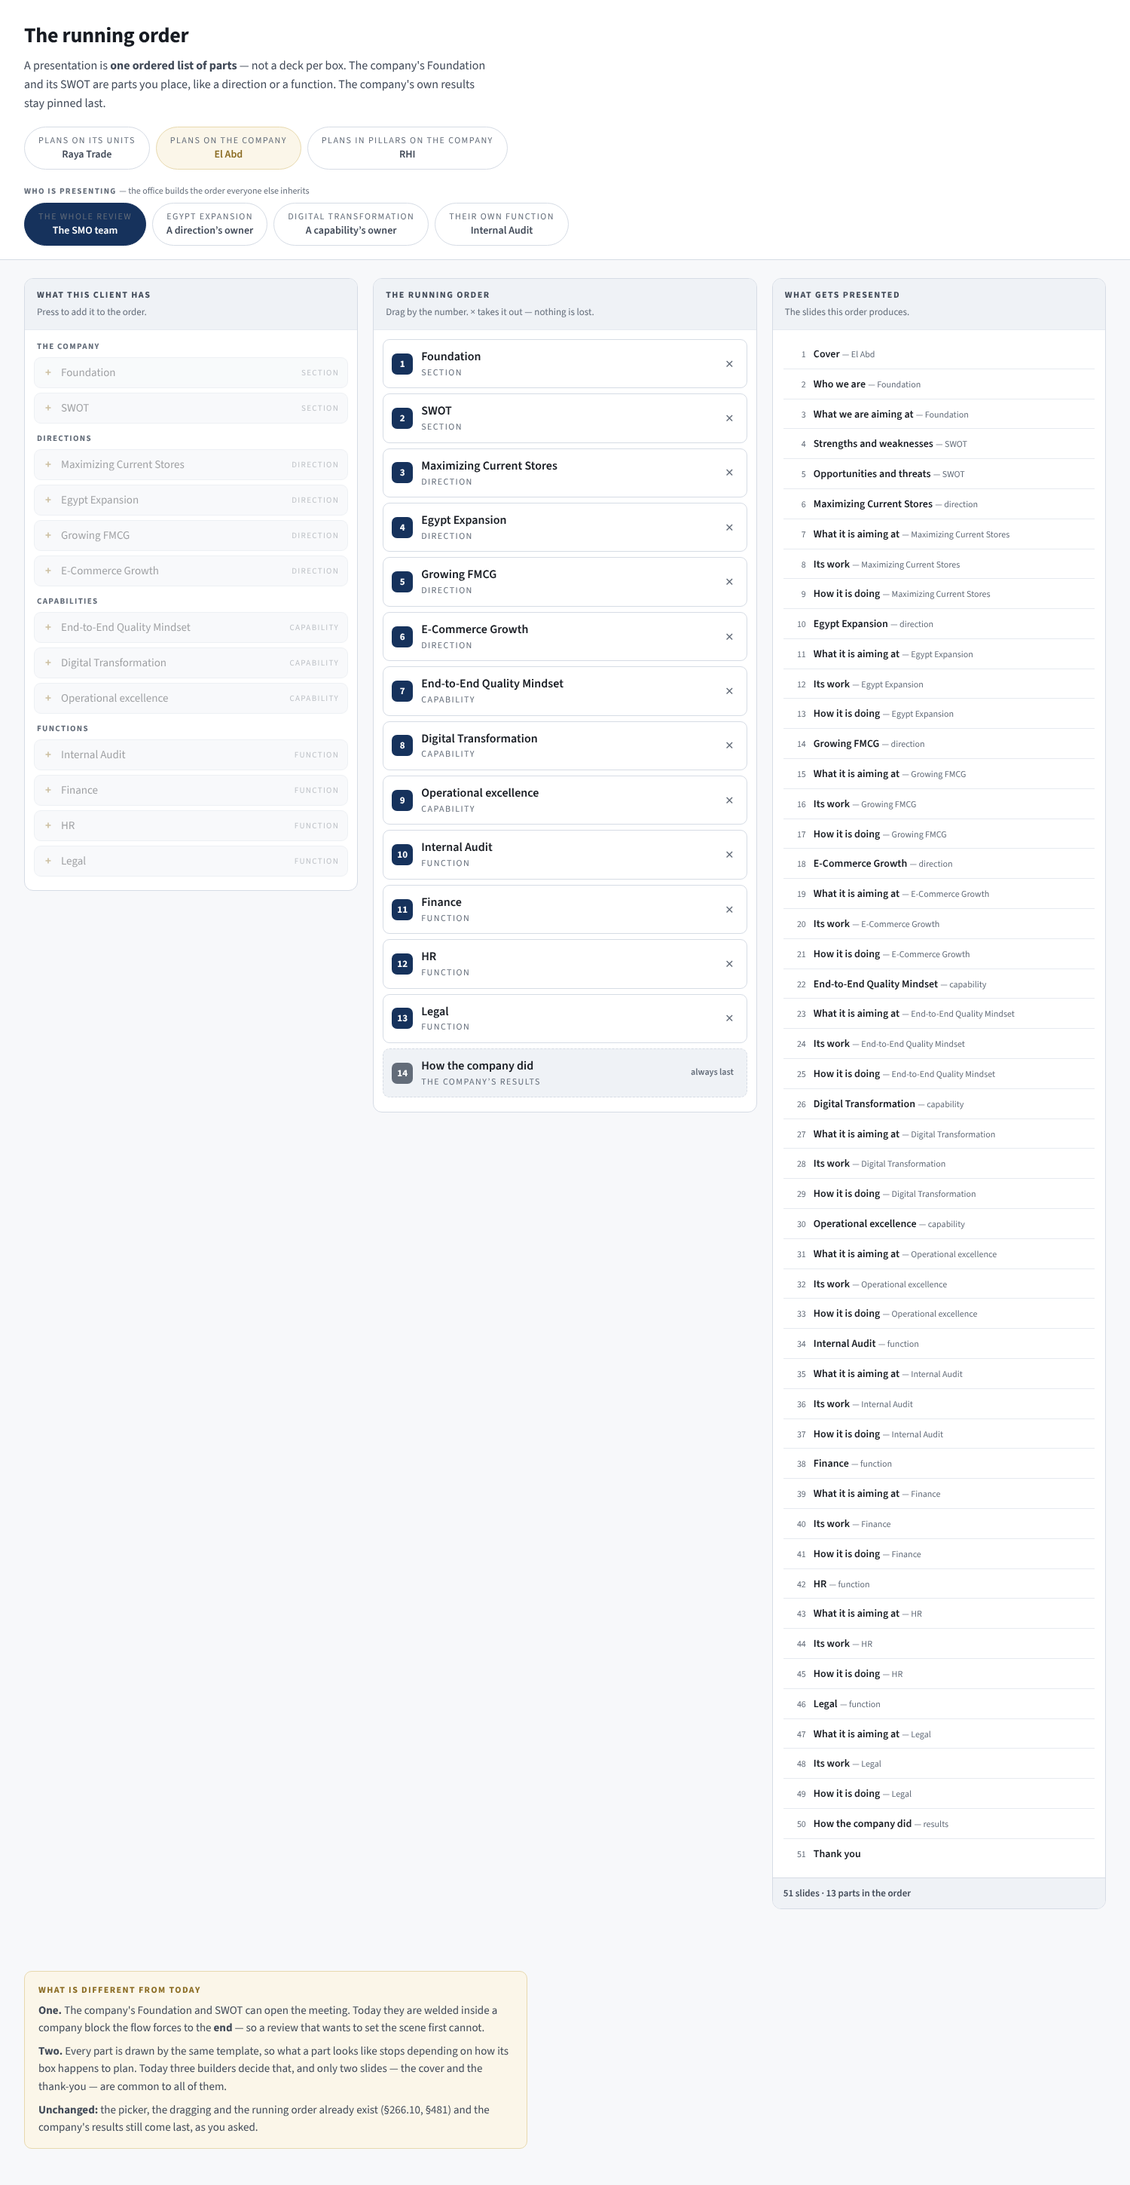
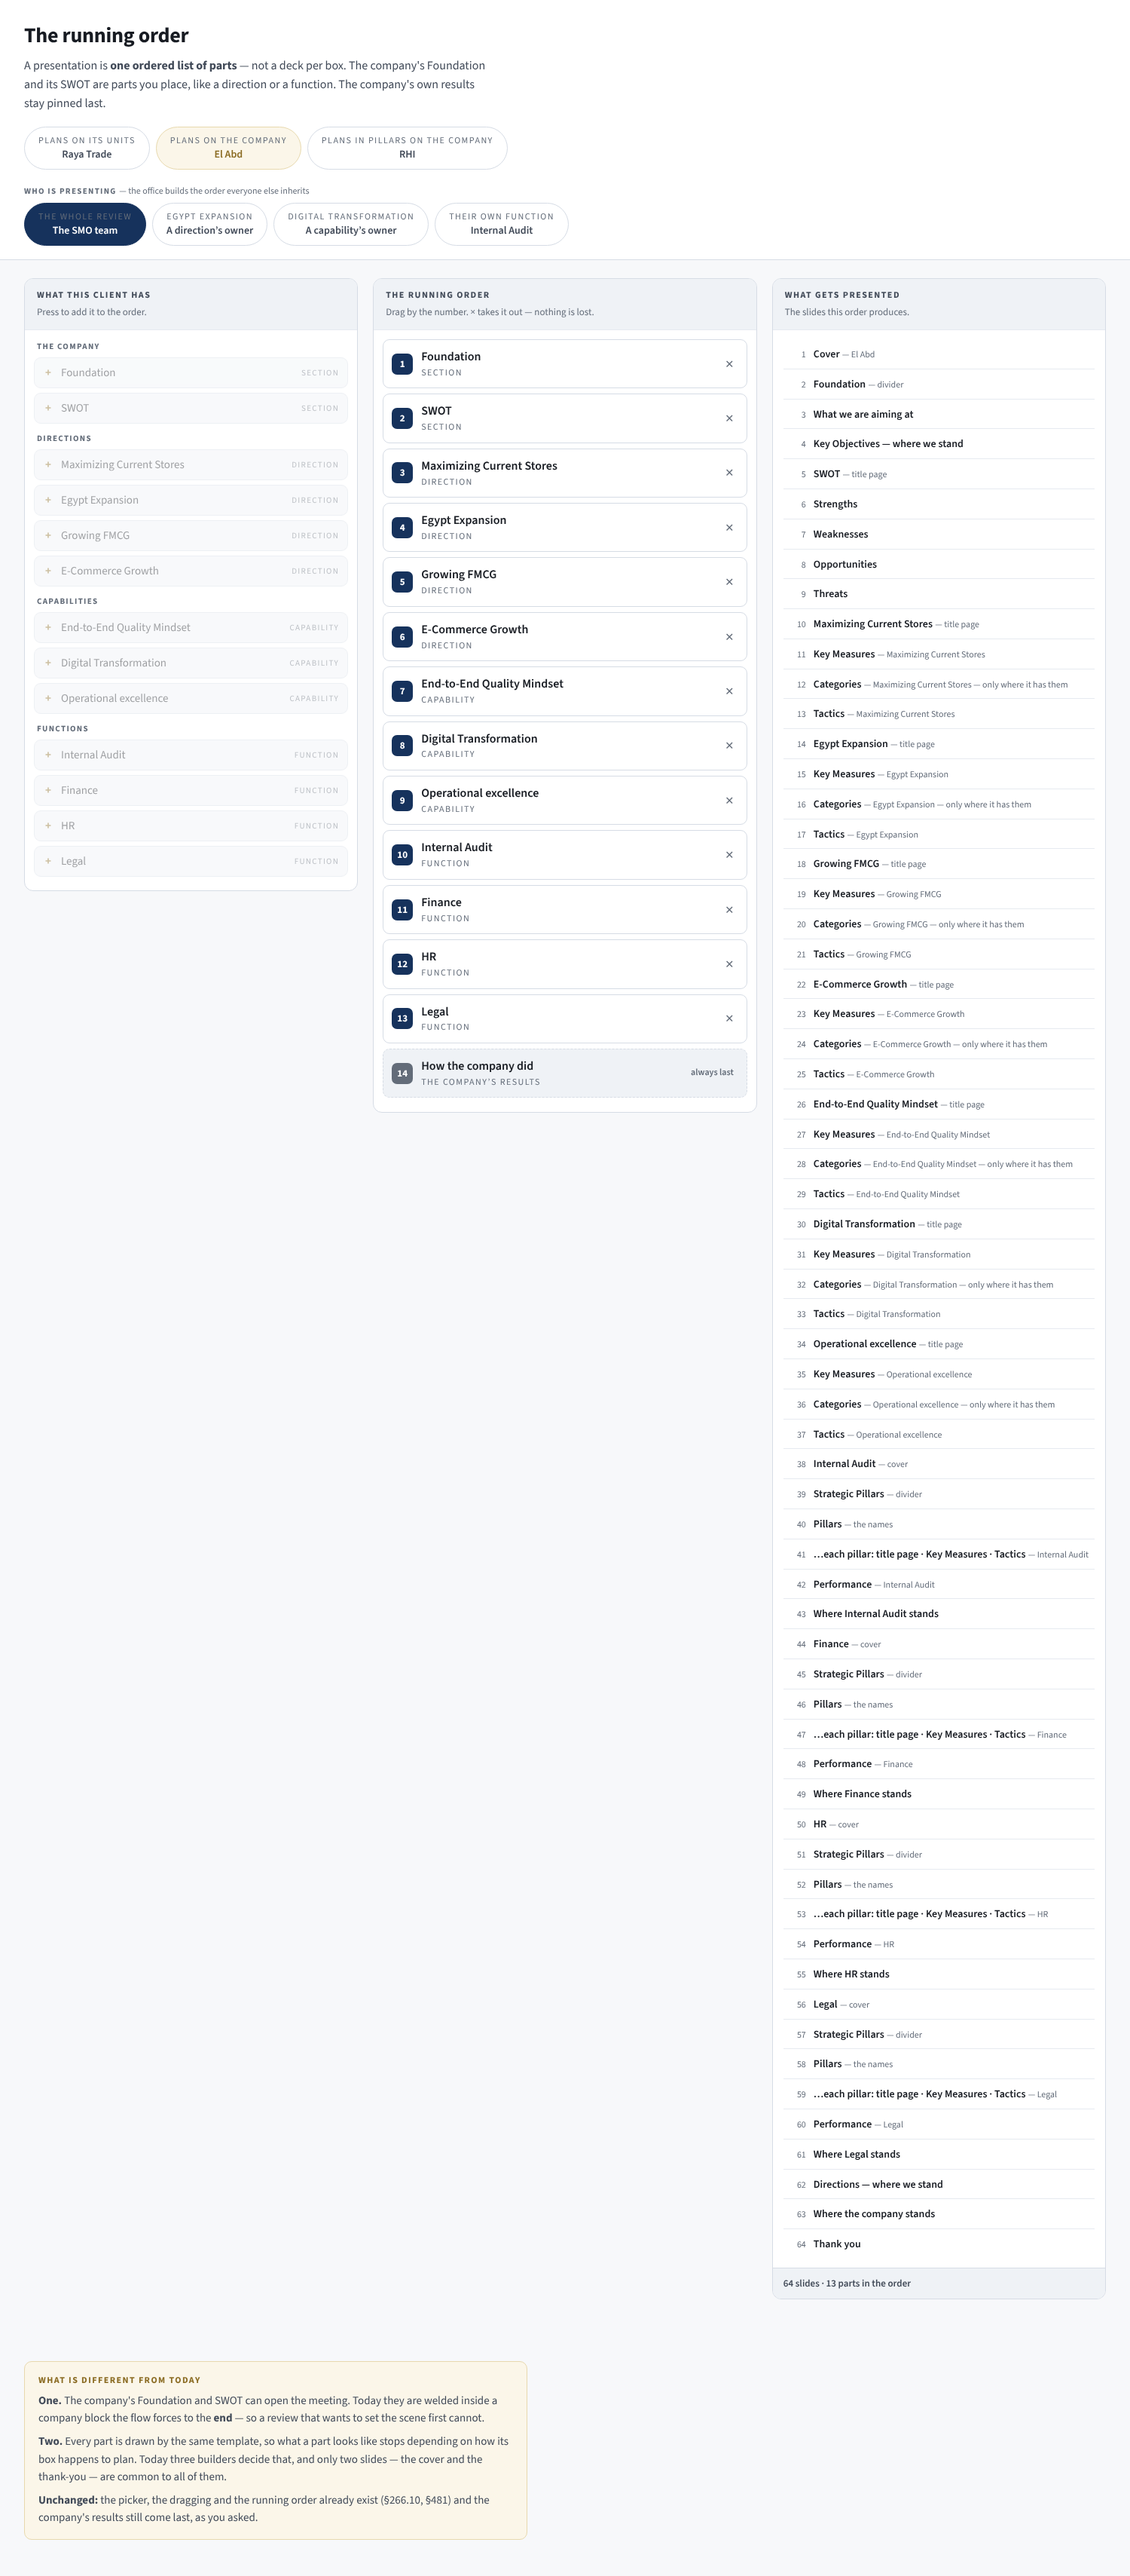
The slide names were invented; they are measured now
Islam, of the mockup's "What gets presented" panel: "that's a very strange
components. did you assume that?" Yes. "Title / What it is aiming at / Its
work / How it is doing" were my words, not the product's — invented while a
tool that reads the real slides sat in the same commit. A mockup that makes
up the one thing a reader would check is worse than no mockup.

Every line is read out of today's decks now:
  a pillar, direction or capability — title page · Key Measures ·
    Categories (only where it has them) · Tactics
  a project — title page · Deliverables and outcomes · Milestones
  the Foundation — Foundation · What we are aiming at ·
    Key Objectives, where we stand
  the SWOT — SWOT · Strengths · Weaknesses · Opportunities · Threats
  the company's results — Directions, where we stand · Where the
    company stands  (TWO slides, which is why an empty order now runs to
    four and the check that said three was counting my invention)

AND IT CORRECTS SOMETHING I TOLD HIM TWICE. I reported that a pillar gets
three slides in a unit and four as a company direction — "same content, two
shapes" — and offered it as the drift one template removes. It is not: the
fourth is Categories, and `if (bdRows)` draws it only where the pillar HAS
categories. El Abd's direction has them, Raya's pillar does not. Content,
not two builders disagreeing.

What survives of the claim is narrower and still worth fixing: a box that
[…]

diff --git a/design-mockups/presentation-order/2026-10-18_the-running-order.html b/design-mockups/presentation-order/2026-10-18_the-running-order.html
@@ -199,18 +199,45 @@ const CLIENTS = {
               {id:"pil", t:"A pillar\u2019s owner", sub:"Clinical Excellence", owns:["p2"]} ] }
 };
 
-/* What each part puts on the screen. The point of the mockup: EVERY part is
-   described the same way, whatever kind it is — that is what "one template"
-   means. A box's own slides are its title, what it is aiming at, its work and
-   how it did. */
+/* WHAT EACH PART PUTS ON THE SCREEN — READ OUT OF THE PRODUCT, NOT INVENTED.
+   The first draft of this mockup made these names up ("What it is aiming
+   at", "Its work", "How it is doing"). Islam: *"that's a very strange
+   components. did you assume that?"* — yes, and a mockup that invents the
+   one thing a reader would check is worse than no mockup. Every line below
+   is the slide's own heading in today's deck, read with
+   scripts/decks/compare.py.
+
+   A CONDITIONAL SLIDE SAYS SO rather than being quietly left out: the
+   Categories slide is drawn only where a pillar HAS categories (`if
+   (bdRows)` in present.js), which is why El Abd's direction has four
+   per-pillar slides and Raya's has three — content, not two builders
+   disagreeing. */
 const SLIDES = {
-  section_found: ["Who we are", "What we are aiming at"],
-  section_swot:  ["Strengths and weaknesses", "Opportunities and threats"],
-  other:         ["Title", "What it is aiming at", "Its work", "How it is doing"]
+  found:      [["Foundation", "divider"],
+               ["What we are aiming at", ""],
+               ["Key Objectives — where we stand", ""]],
+  swot:       [["SWOT", "title page"], ["Strengths", ""], ["Weaknesses", ""],
+               ["Opportunities", ""], ["Threats", ""]],
+  pillarish:  [["{name}", "title page"],
+               ["Key Measures", "{name}"],
+               ["Categories", "{name} — only where it has them"],
+               ["Tactics", "{name}"]],
+  projectish: [["{name}", "title page"],
+               ["Deliverables and outcomes", "{name}"],
+               ["Milestones", "{name}"]],
+  box:        [["{name}", "cover"],
+               ["Strategic Pillars", "divider"],
+               ["Pillars", "the names"],
+               ["…each pillar: title page · Key Measures · Tactics", "{name}"],
+               ["Performance", "{name}"],
+               ["Where {name} stands", ""]],
+  results:    [["Directions — where we stand", ""], ["Where the company stands", ""]]
 };
 function slidesFor(p){
-  if (p.k === "section") return SLIDES["section_" + p.id] || SLIDES.other;
-  return SLIDES.other;
+  if (p.id === "found") return SLIDES.found;
+  if (p.id === "swot")  return SLIDES.swot;
+  if (p.k === "unit" || p.k === "function") return SLIDES.box;
+  return SLIDES.pillarish;      /* a direction, a capability, a pillar */
 }
 
 let CUR = "elabd", WHO = "smo", ORDER = [];
@@ -356,9 +383,10 @@ function drawRun(){
   add("Cover", office ? CLIENTS[CUR].name : viewer().sub);
   shown.forEach(id => {
     const p = part(id);
-    slidesFor(p).forEach(s => add(s === "Title" ? p.t : s, s === "Title" ? p.k : p.t));
+    slidesFor(p).forEach(([title, sub]) =>
+      add(title.replace("{name}", p.t), sub.replace("{name}", p.t)));
   });
-  if (office) add("How the company did", "results");
+  if (office) SLIDES.results.forEach(([t, sub]) => add(t, sub));
   add("Thank you", "");
   document.getElementById("tally").textContent = office
     ? n + " slides · " + ORDER.length + " parts in the order"

diff --git a/design-mockups/presentation-order/drive-the-mockup.py b/design-mockups/presentation-order/drive-the-mockup.py
@@ -69,7 +69,13 @@ with sync_playwright() as p:
     ck("the order can be emptied", rows() == [], rows())
     ck("…and it says so rather than showing a blank",
        "Nothing in the order" in pg.inner_text("#order"))
-    ck("…the run is the cover, the results and the thank-you", runN() == 3, runN())
+    # The results are TWO slides, not one — "Directions — where we stand" and
+    # "Where the company stands", which is what the product actually draws.
+    # This counted 3 while the mockup invented a single "How the company did".
+    ck("…the run is the cover, the company's two results slides and the thank-you",
+       runN() == 4, runN())
+    ck("…and they are the product's own headings, not invented ones",
+       "Where the company stands" in pg.inner_text("#run"), pg.inner_text("#run")[:120])
 
     print("\n6 · the SMO builds the order; everyone else presents their part of it")
     # Islam: *"that's for the smo team but for the user it will only show
